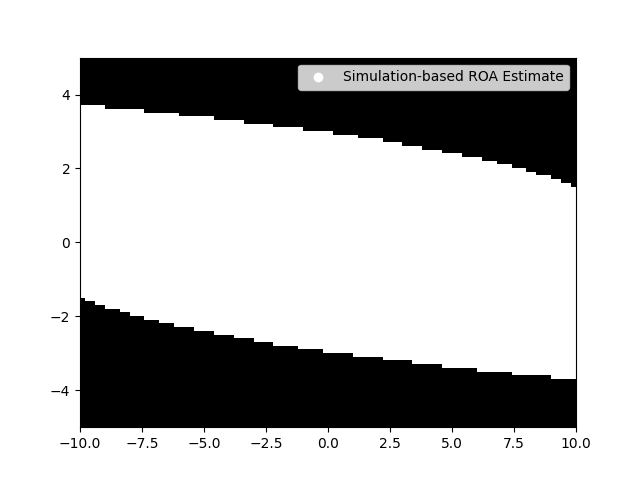
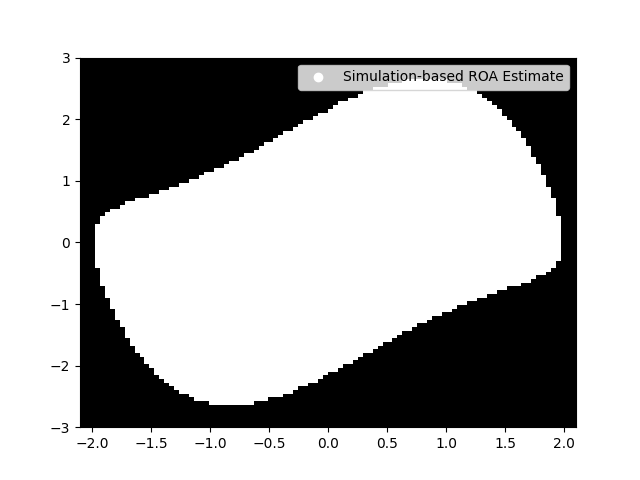
update

diff --git a/src/controller.py b/src/controller.py
@@ -13,6 +13,13 @@ class ZeroPolicy(object):
 
   def get_u(self, x, t):
     return np.zeros(self.nu)
+  
+  def get_xg(self, t=0):
+    return np.zeros(2)
+  
+  def get_K(self, t=0):
+    return np.zeros(2)
+  
 
 class LQRPolicy(object):
   def __init__(self, xg, ug, S, K):
@@ -219,18 +226,18 @@ def find_roa_sample(model, policy):
 
 def find_roa_simulation_2d(model, policy):
   n, m = model.get_dim()
-  dt = 0.01
+  dt = 0.1
   N = 100
-  steps = 1000
+  steps = 200
   xs_eval = np.zeros((n, N))
 
   if type(model).__name__ == 'Pendulum':
-    xs_eval[0,:] = np.linspace(-2, 2, N)
-    xs_eval[1,:] = np.linspace(0, 2*np.pi, N)
+    xs_eval[0,:] = np.linspace(0, 2*np.pi, N)
+    xs_eval[1,:] = np.linspace(-2*np.pi, 2*np.pi, N)
 
-  if type(model).__name__ == 'VanderPol':
-    xs_eval[0,:] = np.linspace(-10, 10, N)
-    xs_eval[1,:] = np.linspace(-5, 5, N)
+  if type(model).__name__ == 'TimeReversedVanderPol':
+    xs_eval[0,:] = np.linspace(-2.1, 2.1, N)
+    xs_eval[1,:] = np.linspace(-3, 3, N)
 
   # X,Y = np.meshgrid(xs_eval[0,:], xs_eval[1,:])
   # x_grid = []
@@ -251,8 +258,8 @@ def find_roa_simulation_2d(model, policy):
 
   x = np.stack(np.meshgrid(xs_eval[0,:], xs_eval[1,:]), 0)
   xd = policy.get_xg()
-  xd = np.tile(xd.reshape(2, 1, 1), (1, N, N))
-  u = np.zeros((1, N, N))
+  xd = np.tile(xd.reshape(n, 1, 1), (1, N, N))
+  u = np.zeros((N, N))
   K = policy.get_K()  
 
   for step in range(steps):
@@ -261,8 +268,8 @@ def find_roa_simulation_2d(model, policy):
     errs = x - xd
     for row in range(N):
       for col in range(N):
-        u[0, row, col] = -K@errs[:, row, col]
-    x = integrate(x, u, model.dynamics, dt)
+        u[row, col] = -K@errs[:, row, col]
+    x = integrate(x, u, model.dynamics, dt) 
 
   errs = x - xd
   stable_idx = np.abs(errs[0]) < 0.01
@@ -276,10 +283,12 @@ def find_roa_simulation_2d(model, policy):
             np.min(xs_eval[1,:]), np.max(xs_eval[1,:])], 
             aspect='auto', origin='lower')
   
-  plt.scatter(100, 100, color='white', label='Simulation-based ROA Estimate')
+  plt.scatter(N, N, color='white', label='Simulation-based ROA Estimate')
   plt.xlim(np.min(xs_eval[0,:]), np.max(xs_eval[0,:]))
   plt.ylim(np.min(xs_eval[1,:]), np.max(xs_eval[1,:]))
   plt.legend() 
   plt.savefig('conservativity.png')
   plt.show()
+
+  # to draw limit cycle, need V=rho or Vdot=0
   return 0

diff --git a/test/test_control_dynamics.py b/test/test_control_dynamics.py
@@ -13,6 +13,7 @@ from verification import *
 from pendulum import *
 from vanderPol import *
 from controller import *
+from time_reversed_vanderPol import *
 
 def test_pendulum(args=None):
   xgoal = np.array([np.pi, 0])
@@ -28,11 +29,11 @@ def test_pendulum(args=None):
   K = np.linalg.solve(R, B.transpose()@S)
   lqr_policy = LQRPolicy(xgoal, ugoal, S, K)
 
-  dt = 0.01
-  N = 700
+  dt = 0.1
+  N = 100
   thist = dt*np.linspace(0, N)
   xhist = np.zeros((n, N))
-  xhist[:, 0] = np.array([3, 2])
+  xhist[:, 0] = np.array([0, 0])
 
   for k in range(N-1):
     uk = lqr_policy.get_u(xhist[:, k])
@@ -47,7 +48,7 @@ def test_vanderPol(args=None):
   xgoal = np.array([0, 0])
   ugoal = np.array([0])
 
-  model = VanderPol(mu=1)
+  model = TimeReversedVanderPol()
   n, m = model.get_dim()
   # Infinite-horizon LQR
   A, B = model.lin_dynamics(xgoal, ugoal)
@@ -57,13 +58,12 @@ def test_vanderPol(args=None):
   K = np.linalg.solve(R, B.transpose()@S)
   lqr_policy = LQRPolicy(xgoal, ugoal, S, K)
 
-  dt = 0.01
-  N = 25000
+  dt = 0.1
+  N = 200
   thist = dt*np.linspace(0, N)
   xhist = np.zeros((n, N))
-  xhist[:, 0] = np.array([-3, -2])
-  print(np.dot(xhist[:, 0], S@xhist[:, 0]))
-  
+  xhist[:, 0] = np.array([1, 2.6])
+  print(model.known_V(xhist[:, 0]))
   for k in range(N-1):
     uk = lqr_policy.get_u(xhist[:, k])
     temp = integrate(xhist[:, k], uk, model.dynamics, dt)
@@ -74,5 +74,5 @@ def test_vanderPol(args=None):
   # plt.show()
 
 if __name__ == '__main__':
-  # test_pendulum()
-  test_vanderPol()
+  test_pendulum()
+  # test_vanderPol()

diff --git a/test/test_passive_vanderPol.py b/test/test_passive_vanderPol.py
@@ -10,12 +10,13 @@ from time_reversed_vanderPol import *
 from controller import *
 
 def main(args=None):
-  model = TimeReversedVanderPol(-1)
+  model = TimeReversedVanderPol()
   n, m = model.get_dim()
 
-  rho = find_passive_roa(model)
+  # rho = find_passive_roa(model)
   rho = find_passive_roa_sample(model, -3, 3)
-  print(rho)
+  # print(rho)
+  rho2 = find_roa_simulation_2d(model, ZeroPolicy(m))  
 
 if __name__ == '__main__':
   main()

diff --git a/test/test_quotient_ring_pendulum.py b/test/test_quotient_ring_pendulum.py
@@ -22,8 +22,9 @@ def main(args=None):
   K = np.linalg.solve(R, B.transpose()@S)
   policy = LQRPolicy(xgoal, ugoal, S, K)
   print('Pendulum ROA search')
-  rho = find_roa(model, policy)
-  rho1 = find_roa_sample(model, policy)
 
+  # rho = find_roa(model, policy)
+  # rho1 = find_roa_sample(model, policy)
+  rho2 = find_roa_simulation_2d(model, policy)  
 if __name__ == '__main__':
   main()

diff --git a/src/verification.py b/src/verification.py
@@ -143,6 +143,8 @@ def check_sos_sample(sym_V, sym_Vdot, w, xlb=-100, xub=100):
   samples = np.array(samples)
 
   plt.scatter(samples[:, 0], samples[:, 1])
+  plt.xlim(-2.1, 2.1)
+  plt.ylim(-3, 3)
   plt.show()
 
   # Get V(xi) values
